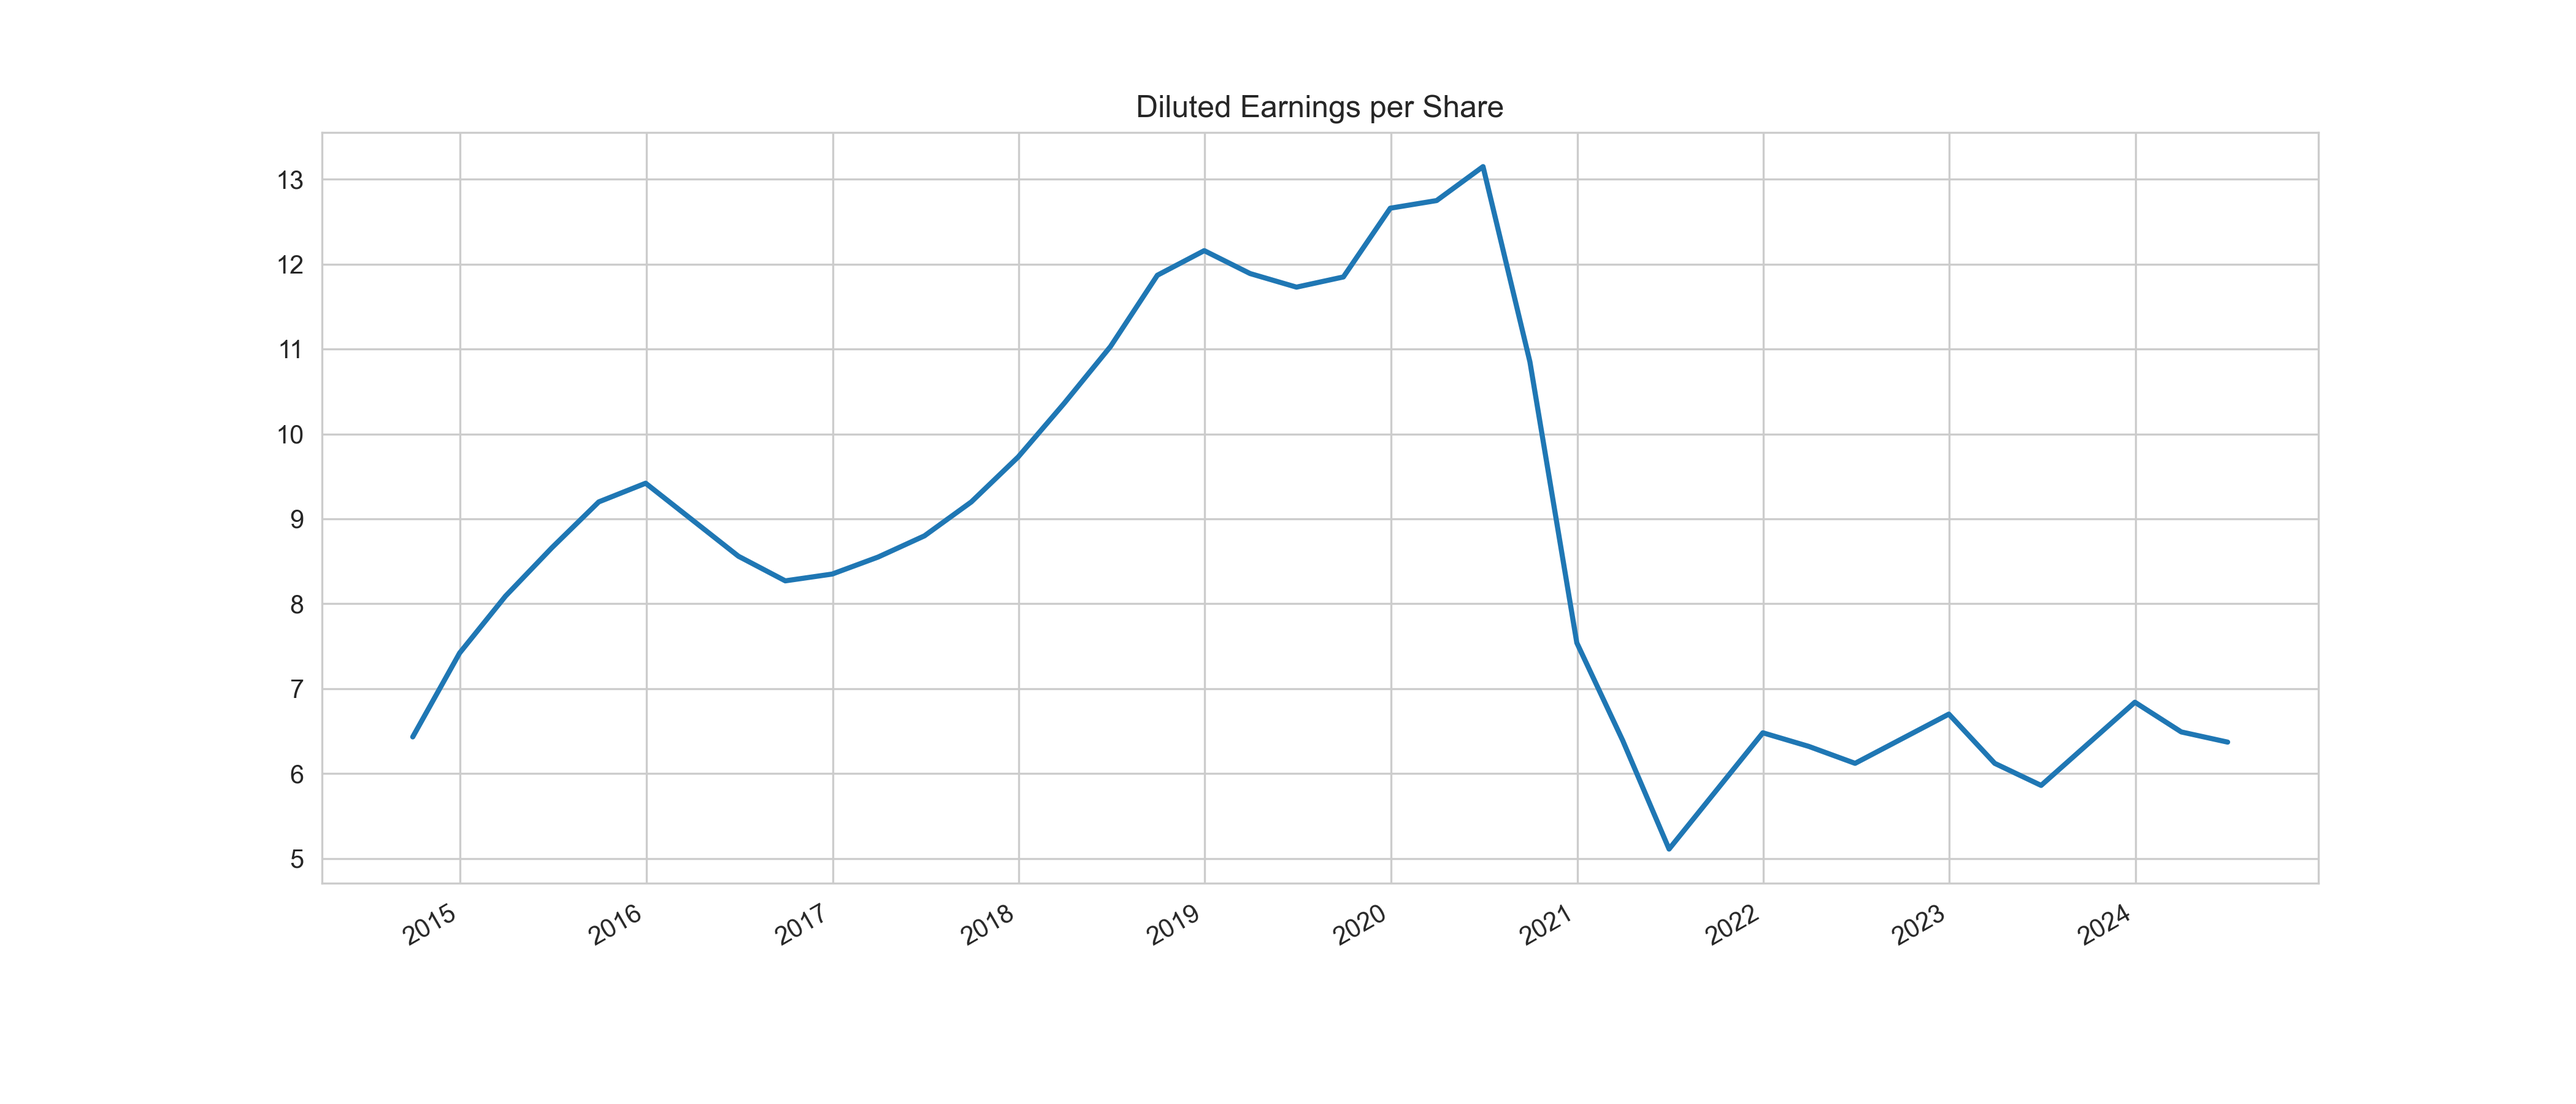
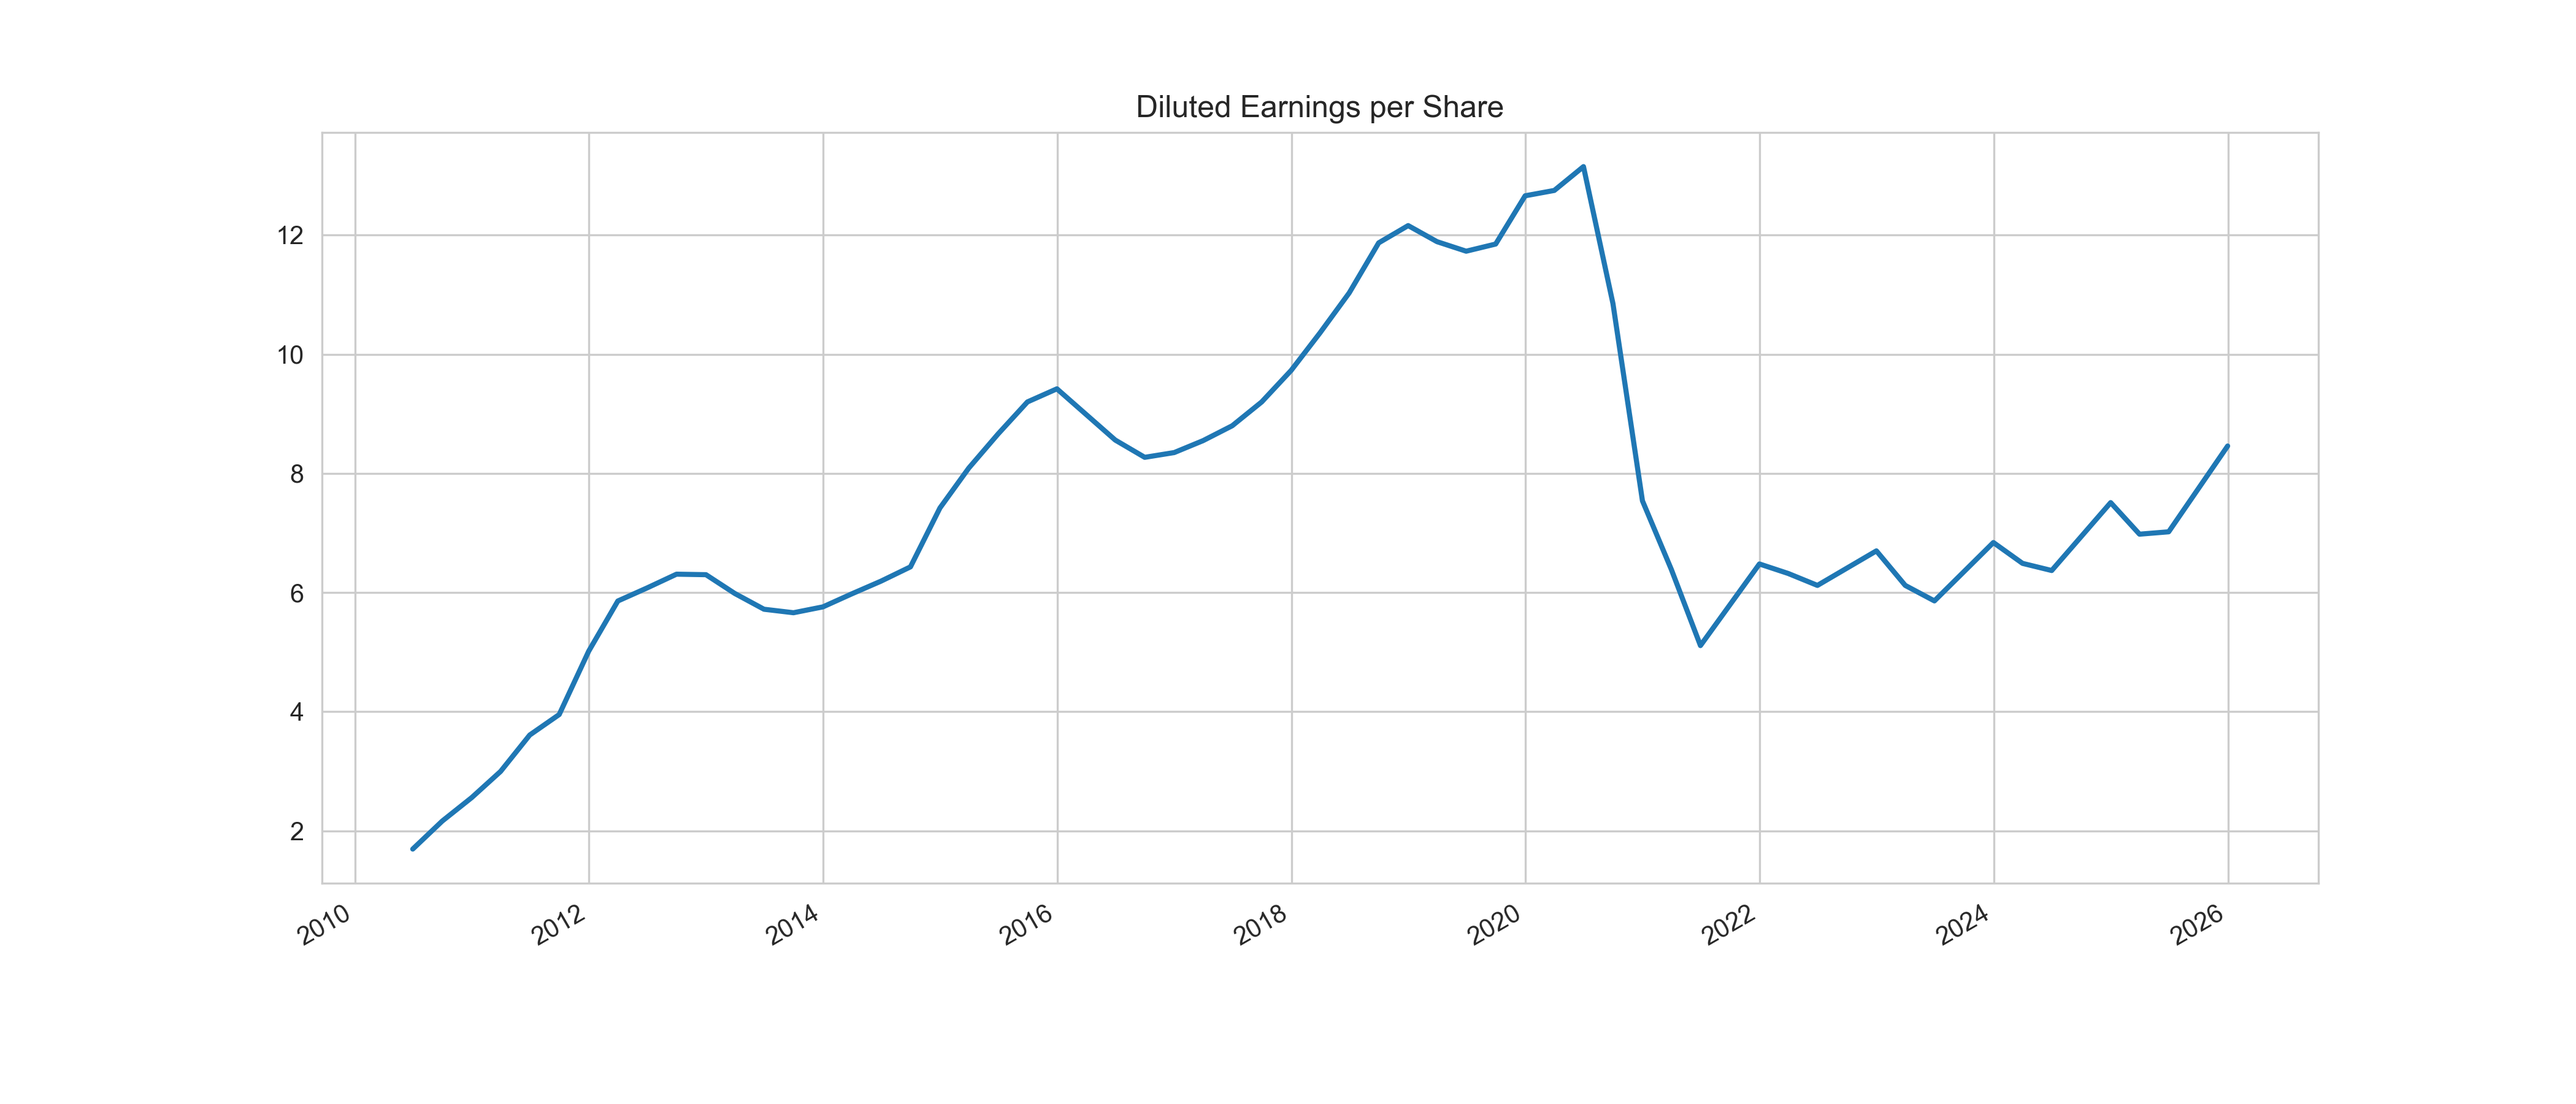
feat: Extend SEC EDGAR data download to 2009, improve notes file retrieval with monthly fallback, and switch stock data acquisition to yfinance.

diff --git a/02_market_and_fundamental_data/04_sec_edgar/01_download_edgar_xbrl.py b/02_market_and_fundamental_data/04_sec_edgar/01_download_edgar_xbrl.py
@@ -1,7 +1,8 @@
 # %% [markdown]
 # # Download FS & Notes Data from SEC's EDGAR service
 
-# %%
+# https://www.sec.gov/data-research/sec-markets-data/financial-statement-data-sets
+# https://www.sec.gov/data-research/sec-markets-data/financial-statement-notes-data-sets# %%
 import warnings
 warnings.filterwarnings('ignore')
 
@@ -28,7 +29,7 @@ FSN_PATH = 'files/dera/data/financial-statement-notes-data-sets/'
 
 # %%
 # Define date range parameters for downloading data
-START_DATE = '2014'
+START_DATE = '2009'
 END_DATE = '2026-12-31'
 
 # %%
@@ -47,25 +48,54 @@ for yr, qtr in tqdm(filing_periods):
 
     path.mkdir(parents=True, exist_ok=True)
     
-    # define url and get file
-    filing = f'{yr}q{qtr}_notes.zip'
-    url = SEC_URL + FSN_PATH + filing
+    # Check if quarterly consolidated file is available first
+    filing_q = f'{yr}q{qtr}_notes.zip'
+    url_q = SEC_URL + FSN_PATH + filing_q
     headers = {'User-Agent': 'MachineLearningForTrading_Student admin@ml4t.com'}
-    response = requests.get(url, headers=headers).content
     
-    # decompress and save
-    try:
-        with ZipFile(BytesIO(response)) as zip_file:
-            for file in zip_file.namelist():
-                local_file = path / file
-                if local_file.exists():
-                    continue
-                with local_file.open('wb') as output:
-                    for line in zip_file.open(file).readlines():
-                        output.write(line)
-    except BadZipFile:
-        print(f'\nBad zip file: {yr} {qtr}\n')
-        continue
+    # Use extremely fast HEAD request to check for file existence
+    if requests.head(url_q, headers=headers).status_code == 200:
+        filings = [filing_q]
+    else:
+        # Fallback to monthly files if quarterly is not available (common for the most recent year)
+        months = [qtr * 3 - 2, qtr * 3 - 1, qtr * 3]
+        filings = [f'{yr}_{m:02d}_notes.zip' for m in months]
+        
+    for filing in filings:
+        url = SEC_URL + FSN_PATH + filing
+        response = requests.get(url, headers=headers)
+        
+        if response.status_code != 200:
+            print(f'\nFile not found (status {response.status_code}): {filing}\n')
+            continue
+            
+        # decompress and save
+        try:
+            with ZipFile(BytesIO(response.content)) as zip_file:
+                for file in zip_file.namelist():
+                    local_file = path / file
+                    is_new = not local_file.exists()
+                    
+                    # Ensure previous file ended with newline when concatenating to avoid corrupted rows
+                    if not is_new:
+                        with local_file.open('rb') as f:
+                            f.seek(-1, 2)
+                            last_char = f.read(1)
+                        if last_char != b'\n':
+                            with local_file.open('ab') as f:
+                                f.write(b'\n')
+                                
+                    # Append mode if file already exists (combining monthly files)
+                    with local_file.open('ab' if not is_new else 'wb') as output:
+                        lines = zip_file.open(file).readlines()
+                        # Skip the header row for subsequent monthly files appended to the same TSV
+                        if not is_new and len(lines) > 0:
+                            lines = lines[1:]  
+                        for line in lines:
+                            output.write(line)
+        except BadZipFile:
+            print(f'\nBad zip file: {filing}\n')
+            continue
 
 # %% [markdown]
 # ## Save to parquet
@@ -87,7 +117,7 @@ for f in tqdm(sorted(list(data_path.glob('**/*.tsv')))):
     file_name = f.stem  + '.parquet'
     if not (parquet_path / file_name).exists():
         try:
-            df = pd.read_csv(f, sep='\t', encoding='latin1', low_memory=False, error_bad_lines=False)
+            df = pd.read_csv(f, sep='\t', encoding='latin1', low_memory=False, on_bad_lines='skip')
             df.to_parquet(parquet_path / file_name)
         except Exception as e:
             print(e, ' | ', f)

diff --git a/02_market_and_fundamental_data/04_sec_edgar/02_process_edgar_xbrl.py b/02_market_and_fundamental_data/04_sec_edgar/02_process_edgar_xbrl.py
@@ -172,14 +172,25 @@ if 'eps' in locals() and not eps.empty:
     plt.savefig('diluted eps', dpi=300)
 
 # %%
-symbol = 'AAPL.US'
+symbol = 'AAPL'
 
 if 'eps' in locals() and not eps.empty:
-    aapl_stock = (web.
-                  DataReader(symbol, 'quandl', start=eps.index.min())
+    import yfinance as yf
+    aapl_stock = yf.download(symbol, start=eps.index.min())
+    aapl_stock.index = pd.to_datetime(aapl_stock.index).tz_localize(None)
+    aapl_stock = (aapl_stock
                   .resample('D')
                   .last()
-                 .loc['2014':eps.index.max()])
+                  .loc['2014':eps.index.max()])
+    
+    if isinstance(aapl_stock.columns, pd.MultiIndex):
+        aapl_stock.columns = aapl_stock.columns.get_level_values(0)
+        
+    if 'Adj Close' in aapl_stock.columns:
+        aapl_stock = aapl_stock.rename(columns={'Adj Close': 'AdjClose'})
+    elif 'Close' in aapl_stock.columns and 'AdjClose' not in aapl_stock.columns:
+        aapl_stock = aapl_stock.rename(columns={'Close': 'AdjClose'})
+
     aapl_stock.info()
 
 # %%
